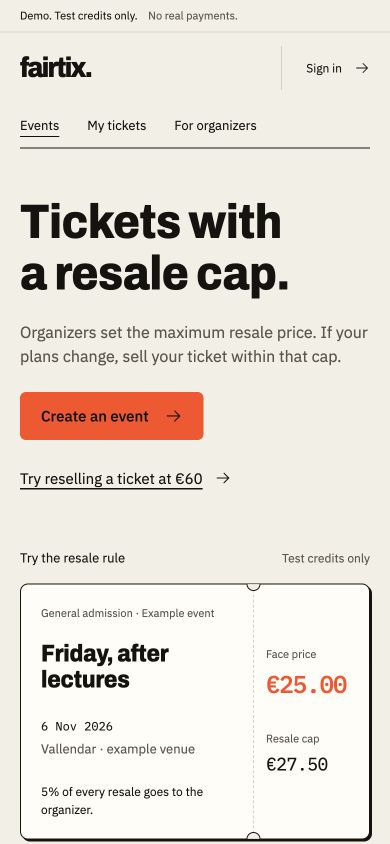
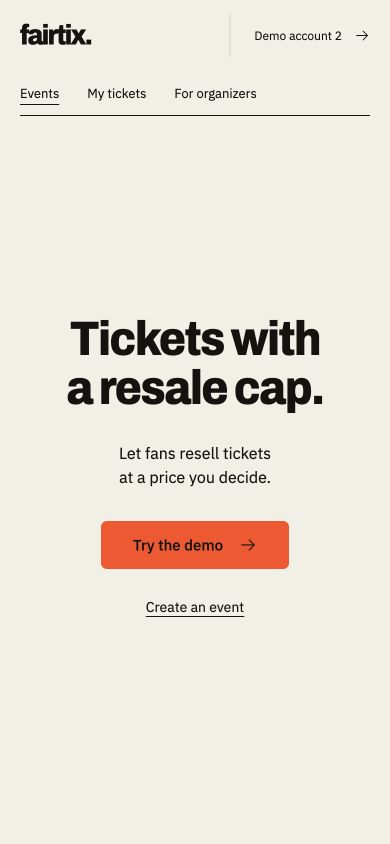
Record public split demo settlement and responsive verification

diff --git a/docs/browser-verification.md b/docs/browser-verification.md
@@ -12,19 +12,15 @@ After the reported RPC 429, server calls were serialized, retries added for HTTP
 
 The shared standard devnet RPC is retained for this submission at the project owner's request. It can still throttle under load. Event/listing reads are shared for up to two seconds within a server process; owner balances are fetched separately. Attempt-log reads use their own endpoint and a one-second cache. Confirmed transactions invalidate both caches in the process that confirms them. Errors are not cached.
 
-## Two-account resale flow
+## Seller and buyer demo
 
-The new `/demo` route was tested in a local browser interface connected to the actual public devnet deployment, with Privy configured. An anonymous visitor could select the seller account without an email wallet, buy the example ticket, attempt a €60 listing, attempt a signed direct transfer, list at €27.50, switch to the buyer account and purchase the seller's listing. The organizer royalty total rose from €1.37 to €2.74. The listing is labeled by its demo account so concurrent visitors' listings are distinguishable.
+The `/demo` route shows the seller and buyer on one screen. No email, wallet extension, account picker or navigation between ticket pages is needed. Listing and purchasing remain separate actions.
 
-Verified transaction receipts:
+An anonymous browser connected to public devnet completed a rejected €60 listing, a signed direct-transfer rejection, a €27.50 listing and a buyer purchase. Reloading after listing preserved the exact listing and price. All five receipts finalized. The resale moved one ticket to the buyer and settled €25.58 to the seller, €1.37 to the organizer and €0.55 to Fairtix in one transaction. The [split demo report](split-demo-verification.json) contains transaction signatures and independently checked token-balance changes. The price rejection, permitted listing and buyer purchase were then repeated on the live site. All four public receipts finalized, with the same ownership change and payment split. Reloading the completed public demo restored its results.
 
[5 lines of base64/hex data omitted]
+The demo regression suite checks signatures from both browser-owned participants, price preservation and recovery after lost primary, listing and resale responses. Retrying replays the same signed transaction instead of making a duplicate purchase. Unexpected rejection codes are not presented as successful cap enforcement. Storage failure stops setup before any network action.
 
-The attempt log showed both new rejected transactions with Explorer links. Its response handling distinguishes a failed HTTP request from an actual empty log, retains previously loaded proofs on failure, and provides a retry action. The regression suite covers HTTP 503 and non-JSON responses explicitly.
+The attempt-log response handling distinguishes a failed HTTP request from an actual empty log, retains previously loaded proofs on failure, and provides a retry action. The resilience suite covers HTTP 503 and non-JSON responses explicitly.
 
 ## Clean checkout
 
@@ -34,7 +30,7 @@ The full local procedure was then executed with newly generated keys, Agave 4.3.
 
 An intermittent consumed-response error found during the clean run was corrected by draining each upstream RPC response once and returning a fresh response body to the Solana client.
 
-The final public guide was checked at 1280px and 390px, and the home page at 390px. In each case document width matched viewport width. Public buyer selection without email worked. Final captures and the check summary are in `docs/screenshots` and [submission verification](submission-verification.json).
+The current interface checks and public captures are recorded in [submission verification](submission-verification.json) and `docs/screenshots`. The centered home hero and demo were checked at 1280 × 800 and 390 × 844. Document width matched viewport width. The hero contains no ticket; the demo uses two columns on desktop and stacks seller above buyer on mobile. The obsolete account-selection guide and its captures have been removed. The clean-checkout and full chain procedures above were completed before the split-screen UI revision; they are retained as setup and program verification, rather than described as a new clean-install run.
 
 ## Submission materials
 
